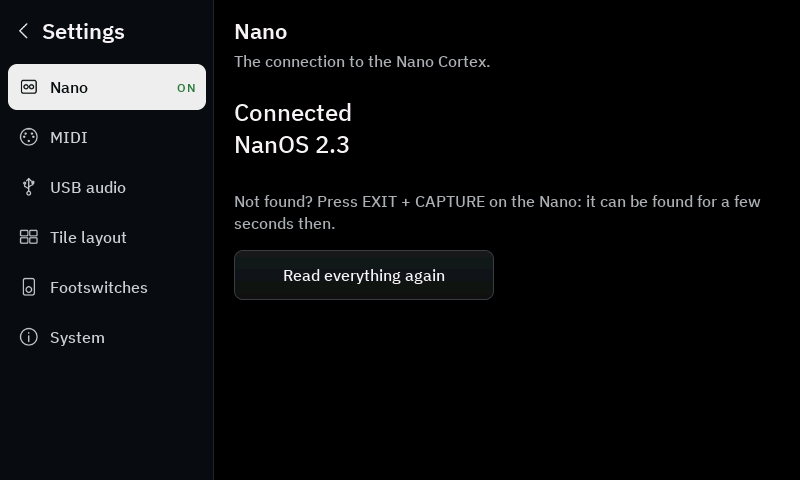
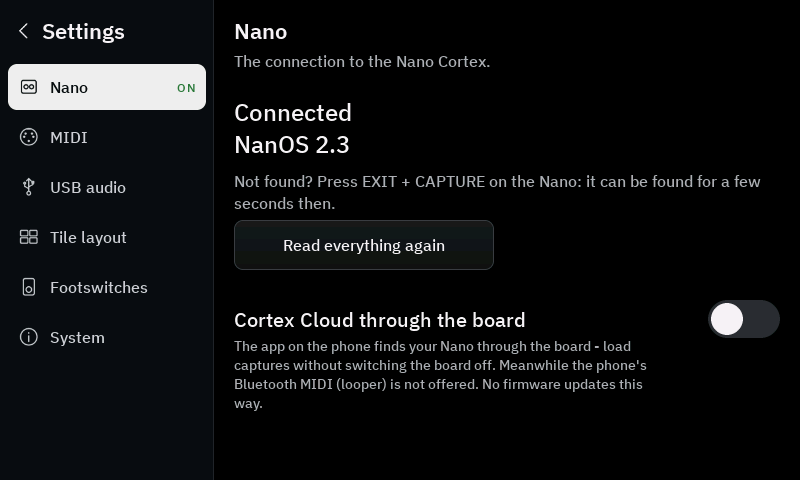
Cortex Cloud through the board (settings, Nano page; off by default)
Cortex Cloud 2.8.3 finds a Nano by the service A002 and takes its identity from the
advertisement's manufacturer data (BluePlusAdapter.startScan). The board keeps the
Nano's manufacturer data from its scan and, with the switch on, advertises it too,
so the app on the phone connects through the board (app bridge as for the editor).
Bluetooth MIDI for a phone is not offered meanwhile. The setting is only a flag at
the start; the advertisement takes it once Bluetooth runs (a first version touched
the host before it was up and crashed at boot).

diff --git a/main/ui.c b/main/ui.c
@@ -115,7 +115,7 @@ static lv_obj_t *s_rot;   // the wheel while a rotary footswitch of the Nano is 
 // Settings screen (1.17.0): topics on the left, the chosen one on the right; MIDI, USB audio and System are its pages
 enum { SET_NANO, SET_MIDI, SET_USB, SET_LAYOUT, SET_SWITCHES, SET_SYSTEM, SET_COUNT };
 static lv_obj_t *s_settings, *s_set_content, *s_set_item[SET_COUNT], *s_set_item_label[SET_COUNT], *s_set_item_icon[SET_COUNT];
-static lv_obj_t *s_set_badge[SET_COUNT], *s_set_page[SET_COUNT], *s_set_nano_text, *s_set_layout_text;
+static lv_obj_t *s_set_badge[SET_COUNT], *s_set_page[SET_COUNT], *s_set_nano_text, *s_set_layout_text, *s_set_cloud;
 static int s_set_topic = SET_NANO;
 static bool s_nano_connected;
 static int s_nano_fw_major = -1, s_nano_fw_minor = -1;
@@ -3690,6 +3690,17 @@ static void close_settings(lv_event_t *e)
 static void on_settings_layout(lv_event_t *e) { open_layout(NULL); lv_obj_move_foreground(s_layout); }
 static void on_settings_learn(lv_event_t *e) { open_learn(1); lv_obj_move_foreground(s_learn); }
 static void on_settings_reload(lv_event_t *e) { send('r', 0); }
+static void on_settings_cloud(lv_event_t *e) { send('\\', lv_obj_has_state(s_set_cloud, LV_STATE_CHECKED) ? 1 : 0); }
+
+void ui_set_cloud(bool on)
+{
+    lvgl_port_lock(0);
+    if (s_set_cloud) {
+        if (on) lv_obj_add_state(s_set_cloud, LV_STATE_CHECKED);
+        else lv_obj_remove_state(s_set_cloud, LV_STATE_CHECKED);
+    }
+    lvgl_port_unlock();
+}
 
 // A dialog of before becomes a page: no frame, no close button
 static void settings_embed(int topic, lv_obj_t *dialog, lv_obj_t *close)
@@ -3792,8 +3803,29 @@ static void build_settings(lv_obj_t *screen)
     lv_obj_set_width(nano_hint, 540);
     lv_label_set_long_mode(nano_hint, LV_LABEL_LONG_WRAP);
     lv_label_set_text(nano_hint, "Not found? Press EXIT + CAPTURE on the Nano: it can be found for a few seconds then.");
-    lv_obj_set_pos(nano_hint, 20, 190);
-    small_button(nano, 20, 250, 260, 50, "Read everything again", on_settings_reload, 0);
+    lv_obj_set_pos(nano_hint, 20, 170);
+    small_button(nano, 20, 220, 260, 50, "Read everything again", on_settings_reload, 0);
+    // Cortex Cloud on the phone through the controller (the board offers itself with the Nano's identity)
+    lv_obj_t *cloud = label(nano, &ui_font_20, TEXT);
+    lv_label_set_text(cloud, "Cortex Cloud through the board");
+    lv_obj_set_pos(cloud, 20, 306);
+    lv_obj_t *cloud_hint = label(nano, &ui_font_14, MUTED);
+    lv_obj_set_width(cloud_hint, 440);
+    lv_label_set_long_mode(cloud_hint, LV_LABEL_LONG_WRAP);
+    lv_label_set_text(cloud_hint, "The app on the phone finds your Nano through the board - load captures without "
+                                  "switching the board off. Meanwhile the phone's Bluetooth MIDI (looper) is not offered. "
+                                  "No firmware updates this way.");
+    lv_obj_set_pos(cloud_hint, 20, 336);
+    s_set_cloud = lv_switch_create(nano);
+    lv_obj_set_size(s_set_cloud, 72, 38);
+    lv_obj_set_pos(s_set_cloud, 494, 300);
+    lv_obj_set_ext_click_area(s_set_cloud, 8);
+    lv_obj_set_style_bg_color(s_set_cloud, lv_color_hex(0x2A2D30), LV_PART_MAIN);
+    lv_obj_set_style_bg_color(s_set_cloud, lv_color_hex(GREEN), LV_PART_INDICATOR | LV_STATE_CHECKED);
+    lv_obj_set_style_bg_color(s_set_cloud, lv_color_hex(0xF2F2F2), LV_PART_KNOB);
+    lv_obj_set_style_bg_color(s_set_cloud, lv_color_hex(INK), LV_PART_KNOB | LV_STATE_CHECKED);
+    lv_obj_set_style_pad_all(s_set_cloud, -3, LV_PART_KNOB);
+    lv_obj_add_event_cb(s_set_cloud, on_settings_cloud, LV_EVENT_VALUE_CHANGED, NULL);
 
     settings_embed(SET_MIDI, s_midi, s_midi_close);
     for (int i = 0; i < 2; i++) lv_obj_set_hidden(s_midi_more[i], true);   // (the list on the left has them)

diff --git a/main/main.c b/main/main.c
@@ -161,6 +161,8 @@ static int s_scene_last = -1;   // recalled last: the lit one if two scenes are 
 #define SCENE_MODE_KEY "scenemode"
 #define LAYOUT_KEY "layout"   // { count, order[8] }
 #define PEDALS_KEY "pedals"   // 1 = the full-screen view shows the FX slots as pedals
+#define CLOUD_KEY "cloud"     // 1 = Cortex Cloud mode of the app bridge (the Nano's identity in the advertisement)
+static bool s_cloud;   // (loaded at the start, see cloud_load)
 #define METRO_KEY "metro"     // metronome settings: muted, time signature, note, sound, volume (dB x 2, signed)
 
 // Tile layout: footswitch / CC 50+p-1 / Chocolate switch p presses the switch s_layout[p - 1] (1-8) - for p up to
@@ -4005,6 +4007,38 @@ static void metro_show(void)
                      .time_sig = s_metro.time_sig, .note_len = s_metro.note_len, .sound = s_metro.sound };
     ui_set_tempo(&t);
     ui_set_nano_firmware(s_state.fw_major, s_state.fw_minor);
+    ui_set_cloud(s_cloud);
+}
+
+// ---- Cortex Cloud through the controller (settings, Nano page) ----
+
+static void cloud_set(bool on, bool store)
+{
+    s_cloud = on;
+    app_link_set_cloud(on);
+    ui_set_cloud(on);
+    if (!store) return;
+    nvs_handle_t nvs;
+    if (nvs_open(BANK_STORE_NAMESPACE, NVS_READWRITE, &nvs) == ESP_OK) {
+        uint8_t v = on;
+        if (nvs_set_blob(nvs, CLOUD_KEY, &v, 1) == ESP_OK) nvs_commit(nvs);
+        nvs_close(nvs);
+    }
+    ESP_LOGI(TAG, "Cortex Cloud through the controller: %s", on ? "on" : "off");
+    ui_show_message(on ? "Cortex Cloud: open the app on the phone - it finds your Nano through the controller."
+                       : "Cortex Cloud through the controller is off.");
+}
+
+static void cloud_load(void)
+{
+    nvs_handle_t nvs;
+    uint8_t v = 0;
+    size_t size = 1;
+    if (nvs_open(BANK_STORE_NAMESPACE, NVS_READONLY, &nvs) == ESP_OK) {
+        if (nvs_get_blob(nvs, CLOUD_KEY, &v, &size) != ESP_OK || size != 1) v = 0;
+        nvs_close(nvs);
+    }
+    s_cloud = v == 1;   // (only the flag: Bluetooth and the screen are not up yet - see metro_show / the link)
 }
 
 static void metro_load(void)
@@ -4392,6 +4426,7 @@ static void handle_command(char c, int arg)
     }
 #endif
     if (c == ')') { system_page(); return; }           // (also without the Nano: that is when it is looked at)
+    if (c == '\\') { cloud_set(arg != 0, true); return; }   // settings, Nano page: Cortex Cloud through the controller
     if (c == 'h') { print_help(); return; }
     if (c == 'l') { print_presets(); return; }
     if (c == 'D' || c == 'Z') { footswitch_learn(c, arg); return; }   // works without the Nano
@@ -5989,6 +6024,7 @@ void app_main(void)
     looper_tiles_load();
     layout_load();
     metro_load();
+    cloud_load();
     fxp_compact_store();
     s_scenes = heap_caps_calloc(UI_SCENES, sizeof(scene_t), MALLOC_CAP_SPIRAM | MALLOC_CAP_8BIT);
     configASSERT(s_scenes);
@@ -6017,6 +6053,7 @@ void app_main(void)
     // otherwise take (they move to PSRAM when internal RAM runs short). Its events wait in the queue until the
     // app task runs, after the screen is built.
     app_link_start(on_app_write, on_app_state);
+    app_link_set_cloud(s_cloud);   // (the setting loaded above)
     nano_link_start(on_message, on_link);
     midi_ble_start(on_midi, on_midi_change);
     midi_ble_allow(false);   // first the Nano and its presets

diff --git a/main/app_link.c b/main/app_link.c
@@ -36,7 +36,12 @@ static volatile uint16_t s_peer[PEERS] = { BLE_HS_CONN_HANDLE_NONE, BLE_HS_CONN_
 static int64_t s_peer_since[PEERS];
 static esp_timer_handle_t s_guest_timer;
 static volatile bool s_phone_allowed;
-static bool s_adv_app, s_adv_phone;   // what the running advertisement offers
+static bool s_adv_app, s_adv_phone, s_adv_cloud;   // what the running advertisement offers
+// Cortex Cloud mode: the app finds a Nano by the service A002 *and* reads its identity from the manufacturer data
+// (Cortex Cloud 2.8.3, BluePlusAdapter.startScan) - the board then advertises the Nano's own manufacturer data, so
+// the app sees "its" Nano and connects through the board. Bluetooth MIDI for a phone is not offered meanwhile (both
+// do not fit into one advertisement).
+static volatile bool s_cloud;
 
 static app_write_cb s_on_write;
 static app_state_cb s_on_state;
@@ -112,8 +117,12 @@ static void advertise(void)
     bool app = s_enabled && s_conn == BLE_HS_CONN_HANDLE_NONE;
     bool phone = s_phone_allowed && phone_midi_conn() == BLE_HS_CONN_HANDLE_NONE;
     if (peer_slot(BLE_HS_CONN_HANDLE_NONE) < 0) app = phone = false;   // no room for another connection
+    static uint8_t mfg[27];
+    size_t mfg_len = s_cloud && app ? nano_link_nano_mfg(mfg, sizeof(mfg)) : 0;
+    bool cloud = mfg_len > 0;
+    if (cloud) phone = false;
     if (ble_gap_adv_active()) {
-        if (app == s_adv_app && phone == s_adv_phone) return;
+        if (app == s_adv_app && phone == s_adv_phone && cloud == s_adv_cloud) return;
         ble_gap_adv_stop();
     }
     if (!app && !phone) return;
@@ -124,6 +133,10 @@ static void advertise(void)
         fields.uuids16 = &service;
         fields.num_uuids16 = 1;
         fields.uuids16_is_complete = 1;
+    }
+    if (cloud) {
+        fields.mfg_data = mfg;
+        fields.mfg_data_len = (uint8_t)mfg_len;
     }
     if (phone) {
         fields.uuids128 = &PHONE_MIDI_SERVICE_UUID;
@@ -151,6 +164,7 @@ static void advertise(void)
     }
     s_adv_app = app;
     s_adv_phone = phone;
+    s_adv_cloud = cloud;
     ESP_LOGI(TAG, "Offered as \"%s\" to%s%s%s", NAME, app ? " the app" : "", app && phone ? " and" : "", phone ? " a phone (MIDI)" : "");
 }
 
@@ -344,6 +358,14 @@ void app_link_allow_phone(bool allowed)
 {
     s_phone_allowed = allowed;
     advertise();
+}
+
+void app_link_set_cloud(bool on)
+{
+    s_cloud = on;
+    // Only while something is offered (the host is running then); at the start only the flag is set - the
+    // advertisement takes it when the Nano is connected (app_link_enable) or the phone is allowed.
+    if (s_enabled || s_phone_allowed) advertise();
 }
 
 bool app_link_connected(void)

diff --git a/main/nano_link.c b/main/nano_link.c
@@ -267,6 +267,29 @@ static bool is_nano(const struct ble_hs_adv_fields *f)
 }
 
 // Logs every named device once, so a Nano with an unexpected name can still be identified.
+// The Nano's manufacturer data as it advertises it (Cortex Cloud takes the device's identity from it): kept for the
+// app bridge's "Cortex Cloud" mode, which advertises the same.
+static uint8_t s_nano_mfg[27];
+static uint8_t s_nano_mfg_len;
+
+size_t nano_link_nano_mfg(uint8_t *out, size_t max)
+{
+    size_t n = s_nano_mfg_len < max ? s_nano_mfg_len : max;
+    memcpy(out, s_nano_mfg, n);
+    return n;
+}
+
+static void keep_nano_mfg(const struct ble_hs_adv_fields *f)
+{
+    if (!f->mfg_data || !f->mfg_data_len || f->mfg_data_len > sizeof(s_nano_mfg)) return;
+    if (f->mfg_data_len == s_nano_mfg_len && !memcmp(f->mfg_data, s_nano_mfg, s_nano_mfg_len)) return;
+    memcpy(s_nano_mfg, f->mfg_data, f->mfg_data_len);
+    s_nano_mfg_len = f->mfg_data_len;
+    char hex[3 * sizeof(s_nano_mfg) + 1] = "";
+    for (int i = 0; i < s_nano_mfg_len; i++) snprintf(hex + 3 * i, 4, "%02X ", s_nano_mfg[i]);
+    ESP_LOGI(TAG, "Nano's manufacturer data (%u bytes): %s", (unsigned)s_nano_mfg_len, hex);
+}
+
 static void log_seen(const struct ble_hs_adv_fields *f, const ble_addr_t *addr, int8_t rssi)
 {
     static ble_addr_t seen[24];
@@ -688,6 +711,7 @@ static int gap_event(struct ble_gap_event *event, void *arg)
         struct ble_hs_adv_fields fields;
         if (ble_hs_adv_parse_fields(&fields, event->disc.data, event->disc.length_data) != 0) return 0;
         log_seen(&fields, &event->disc.addr, event->disc.rssi);
+        if (is_nano(&fields)) keep_nano_mfg(&fields);
         if (s_conn == BLE_HS_CONN_HANDLE_NONE && !s_connecting && is_nano(&fields) && esp_timer_get_time() < s_hold_until_us) {
             static int64_t said_us;   // (seen, but the pause is not over: the Nano is still advertising)
             if (esp_timer_get_time() - said_us > 5000000) {

diff --git a/main/app_link.h b/main/app_link.h
@@ -32,6 +32,10 @@ void app_link_start(app_write_cb on_write, app_state_cb on_state);
 // Offer the controller to the app (only while the Nano is connected); false also disconnects the app.
 void app_link_enable(bool enabled);
 
+// Cortex Cloud mode: advertise the Nano's manufacturer data too, so the official app finds the Nano through the
+// controller (Bluetooth MIDI for a phone is not offered meanwhile).
+void app_link_set_cloud(bool on);
+
 // Offer Bluetooth MIDI to a phone (phone_midi); false only stops offering it - a connected phone stays.
 void app_link_allow_phone(bool allowed);
 

diff --git a/main/nano_link.h b/main/nano_link.h
@@ -41,6 +41,9 @@ void nano_link_set_forward(nano_forward_cb cb);
 
 uint8_t nano_link_own_addr_type(void);
 
+// The Nano's manufacturer data from its advertisement (0 bytes until it was seen).
+size_t nano_link_nano_mfg(uint8_t *out, size_t max);
+
 // ---- shared with other Bluetooth clients (MIDI) ----
 
 // Every advertisement seen while scanning. Called from the NimBLE host task.

diff --git a/main/ui.h b/main/ui.h
@@ -199,6 +199,9 @@ typedef struct {
 } ui_rotate_t;
 void ui_show_rotate(const ui_rotate_t *r);
 
+// Cortex Cloud through the controller: the switch on the settings screen's Nano page ('\\' 0 / 1 sets it).
+void ui_set_cloud(bool on);
+
 // NanOS version from the state (-1 = unknown), for the settings screen's Nano page.
 void ui_set_nano_firmware(int major, int minor);
 
